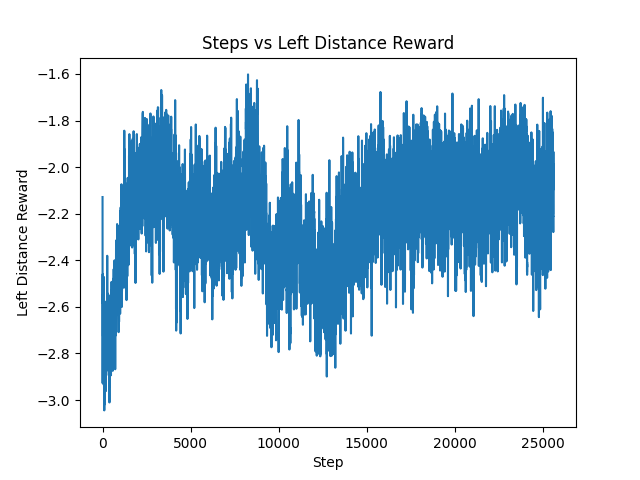
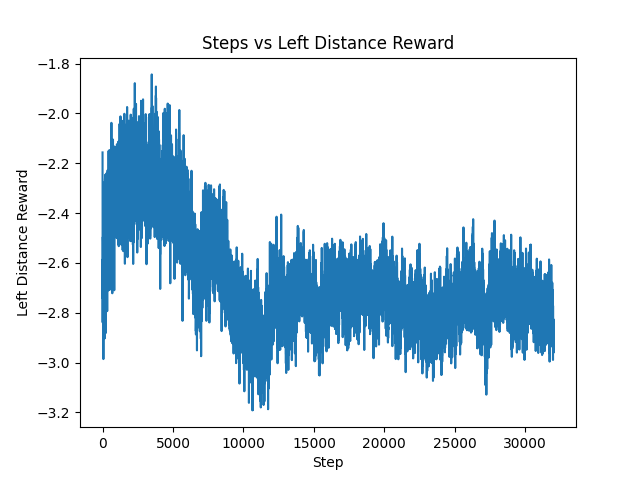
starting multi stage w/ grasping

diff --git a/source/gr1_train/gr1_train/tasks/direct/gr1_train/gr1_train_env.py b/source/gr1_train/gr1_train/tasks/direct/gr1_train/gr1_train_env.py
@@ -38,7 +38,8 @@ class Gr1TrainEnv(DirectRLEnv):
             "rew_time": [],
             "rew_pinky": [],
             "rew_palm_facing": [],
-            "rew_object_orientation": []
+            "rew_object_orientation": [],
+            "rew_finger_dist": []
         }
 
         self.dones = {
@@ -66,6 +67,21 @@ class Gr1TrainEnv(DirectRLEnv):
             # "waist_yaw_joint",
             # "waist_pitch_joint",
             # "waist_roll_joint",
+    
+            # fingers=12
+            'L_index_proximal_joint',
+            'L_middle_proximal_joint',
+            'L_pinky_proximal_joint',
+            'L_ring_proximal_joint',
+            'L_thumb_proximal_yaw_joint',
+            'L_index_intermediate_joint',
+            'L_middle_intermediate_joint',
+            'L_pinky_intermediate_joint',
+            'L_ring_intermediate_joint',
+            'L_thumb_proximal_pitch_joint',
+            'L_thumb_distal_joint',
+            'R_thumb_distal_joint'
+
         ]
 
         # If number of joints lower than action space, pad with last joint
@@ -264,9 +280,14 @@ class Gr1TrainEnv(DirectRLEnv):
         # print(f"Normalised distance: max={torch.max(normalised_distance).item()} min={torch.min(normalised_distance).item()}")
         # When it gets closer, max action value decreases
         # "left_shoulder_pitch_joint", "left_shoulder_roll_joint", "left_shoulder_yaw_joint", "left_elbow_pitch_joint" but wrist not slowed
-        scaled_actions = normalised_actions * (normalised_distance.unsqueeze(1))
+        scaled_actions = normalised_actions[:, :7] * (normalised_distance.unsqueeze(1))
 
-        noise_actions = scaled_actions + torch.randn_like(self.actions) * 0.05
+        palm_pos = (link_data[:, 34] * 0.7 + link_data[:, 29] * 0.3)
+        left_dist = torch.linalg.norm(obj_pos - palm_pos, dim=-1)
+        hand_actions = (left_dist <= 0.15).to(dtype=torch.float32).unsqueeze(1) * normalised_actions[:, 7:] * 0.5
+
+        all_actions = torch.cat((scaled_actions, hand_actions), dim=-1)
+        noise_actions = all_actions + torch.randn_like(all_actions) * 0.05
         # For exploration and to simulate motor errors 
         # noise_actions = torch.cat((scaled_actions, normalised_actions[:, 4:]), dim=-1) + torch.randn_like(self.actions) * 0.05 
         self.robot.set_joint_position_target(noise_actions, joint_ids=self._controlled_joint_ids.tolist())
@@ -312,6 +333,7 @@ class Gr1TrainEnv(DirectRLEnv):
         # Left middle finger: name="L_middle_intermediate_link", index=44
         # L Proximal Middle link: name="L_middle_proximal_link", index=34
         # left_wrist_yaw_joint#26 left_wrist_pitch_joint#30 left_wrist_roll_joint#28
+        # L_thumb_distal_link=53
         link_data = self.robot.data.body_link_pos_w
         
         left_wrist_pos = link_data[:, 29]
@@ -335,12 +357,14 @@ class Gr1TrainEnv(DirectRLEnv):
         # Palm facing block
         rew_success = self.cfg.reward_scale_success * (left_dist <= 0.15).to(dtype=torch.float32) * (dot > 0.5).to(dtype=torch.float32)
 
-        rew_pinky = self.cfg.reward_scale_contact_left_pinky * torch.tanh((torch.linalg.norm(self.force_finger.data.net_forces_w, dim=-1).squeeze(-1) + torch.linalg.norm(self.force_hand.data.net_forces_w, dim=-1).squeeze(-1)) / 12)
+        rew_pinky = self.cfg.reward_scale_contact_left_pinky * torch.tanh((torch.linalg.norm(self.force_finger.data.net_forces_w, dim=-1).squeeze(-1) + torch.linalg.norm(self.force_hand.data.net_forces_w, dim=-1).squeeze(-1)) / 12) * (left_dist > 0.15).to(dtype=torch.float32)
 
         rew_falling_penalty = self.cfg.reward_scale_falling_penalty * (obj_z < 0.8).to(dtype=torch.float32)
         rew_time = self.cfg.reward_scale_time * self.episode_length_buf
 
-        total_reward = rew_left_dist + rew_success + rew_time + rew_falling_penalty + rew_palm_facing + rew_object_orientation + rew_pinky
+        rew_finger_dist = torch.linalg.norm(link_data[:, 44] - link_data[:, 53], dim=-1) * -10.0 * (left_dist <= 0.15).to(dtype=torch.float32)
+
+        total_reward = rew_left_dist + rew_success + rew_time + rew_falling_penalty + rew_palm_facing + rew_object_orientation + rew_pinky + rew_finger_dist
 
         self.rewards["total_reward"].append(torch.mean(total_reward).item())
         self.rewards["rew_left_dist"].append(torch.mean(rew_left_dist).item())
@@ -350,6 +374,7 @@ class Gr1TrainEnv(DirectRLEnv):
         self.rewards["rew_palm_facing"].append(torch.mean(rew_palm_facing).item())
         self.rewards["rew_pinky"].append(torch.mean(rew_pinky).item())
         self.rewards["rew_object_orientation"].append(torch.mean(rew_object_orientation).item())
+        self.rewards["rew_finger_dist"].append(torch.mean(rew_finger_dist).item())
         return total_reward
 
     def _get_dones(self) -> tuple[torch.Tensor, torch.Tensor]:
@@ -388,9 +413,9 @@ class Gr1TrainEnv(DirectRLEnv):
 
         # self.dones["total"].append(self.dones["dropped"][-1] + self.dones["timed_out"][-1] + self.dones["successful"][-1])
         # self.dones["total_x_time"].append(self.dones["dropped_x_time"][-1] + self.dones["timed_out_x_time"][-1] + self.dones["successful_x_time"][-1])
-        fails = torch.logical_or(time_out, dropped).to(dtype=torch.float32)
+        # fails = torch.logical_or(time_out, dropped).to(dtype=torch.float32)
 
-        return success, fails
+        return time_out, dropped
 
     def _reset_idx(self, env_ids: Sequence[int] | None):
         if env_ids is None:

diff --git a/source/gr1_train/gr1_train/tasks/direct/gr1_train/gr1_train_env_cfg.py b/source/gr1_train/gr1_train/tasks/direct/gr1_train/gr1_train_env_cfg.py
@@ -123,12 +123,13 @@ class Gr1TrainEnvCfg(DirectRLEnvCfg):
     sim: SimulationCfg = SimulationCfg(dt=1.0 / 120.0, render_interval=2)
     scene: ObjectTableSceneCfg = ObjectTableSceneCfg(num_envs=64, env_spacing=2.5, replicate_physics=True)
 
-    action_space: int = 7
+    action_space: int = 7 + 12
     # observation: joint positions (7), joint velocities (7) (left and right)
     # object position (3) orientation (4)
     # Left hand roll link pose (7)
     # waist joints: pos (3) vel (3)
-    observation_space: int = 14 + 7 + 7
+    # finger joints (12) finger velocities (12)
+    observation_space: int = 14 + 7 + 7 + 24
     state_space: int = 0
 
     max_action = 0.5
@@ -136,7 +137,7 @@ class Gr1TrainEnvCfg(DirectRLEnvCfg):
     # reward_scale_lift: float = 1.0
     # reward_scale_distance_right: float = -10.0
     reward_scale_distance_left: float = -4.0
-    reward_scale_success: float = 150.0
+    reward_scale_success: float = 40.0 # 150.0
     reward_palm_facing_object: float = 10.0
 
     # reward_scale_stopping_bonus: float = 150.0

diff --git a/source/gr1_train/gr1_train/tasks/direct/gr1_train/agents/rsl_rl_ppo_cfg.py b/source/gr1_train/gr1_train/tasks/direct/gr1_train/agents/rsl_rl_ppo_cfg.py
@@ -11,7 +11,7 @@ from isaaclab_rl.rsl_rl import RslRlOnPolicyRunnerCfg, RslRlPpoActorCriticCfg, R
 @configclass
 class PPORunnerCfg(RslRlOnPolicyRunnerCfg):
     num_steps_per_env = 32 # horizon, the number of (physics) steps before updating the policy
-    max_iterations = 800 # Total number of PPO iterations to perform
+    max_iterations = 1000 # Total number of PPO iterations to perform
     save_interval = 50 # saves model checkpoints every 50 iterations
     experiment_name = "gr1-manip"
     policy = RslRlPpoActorCriticCfg(
